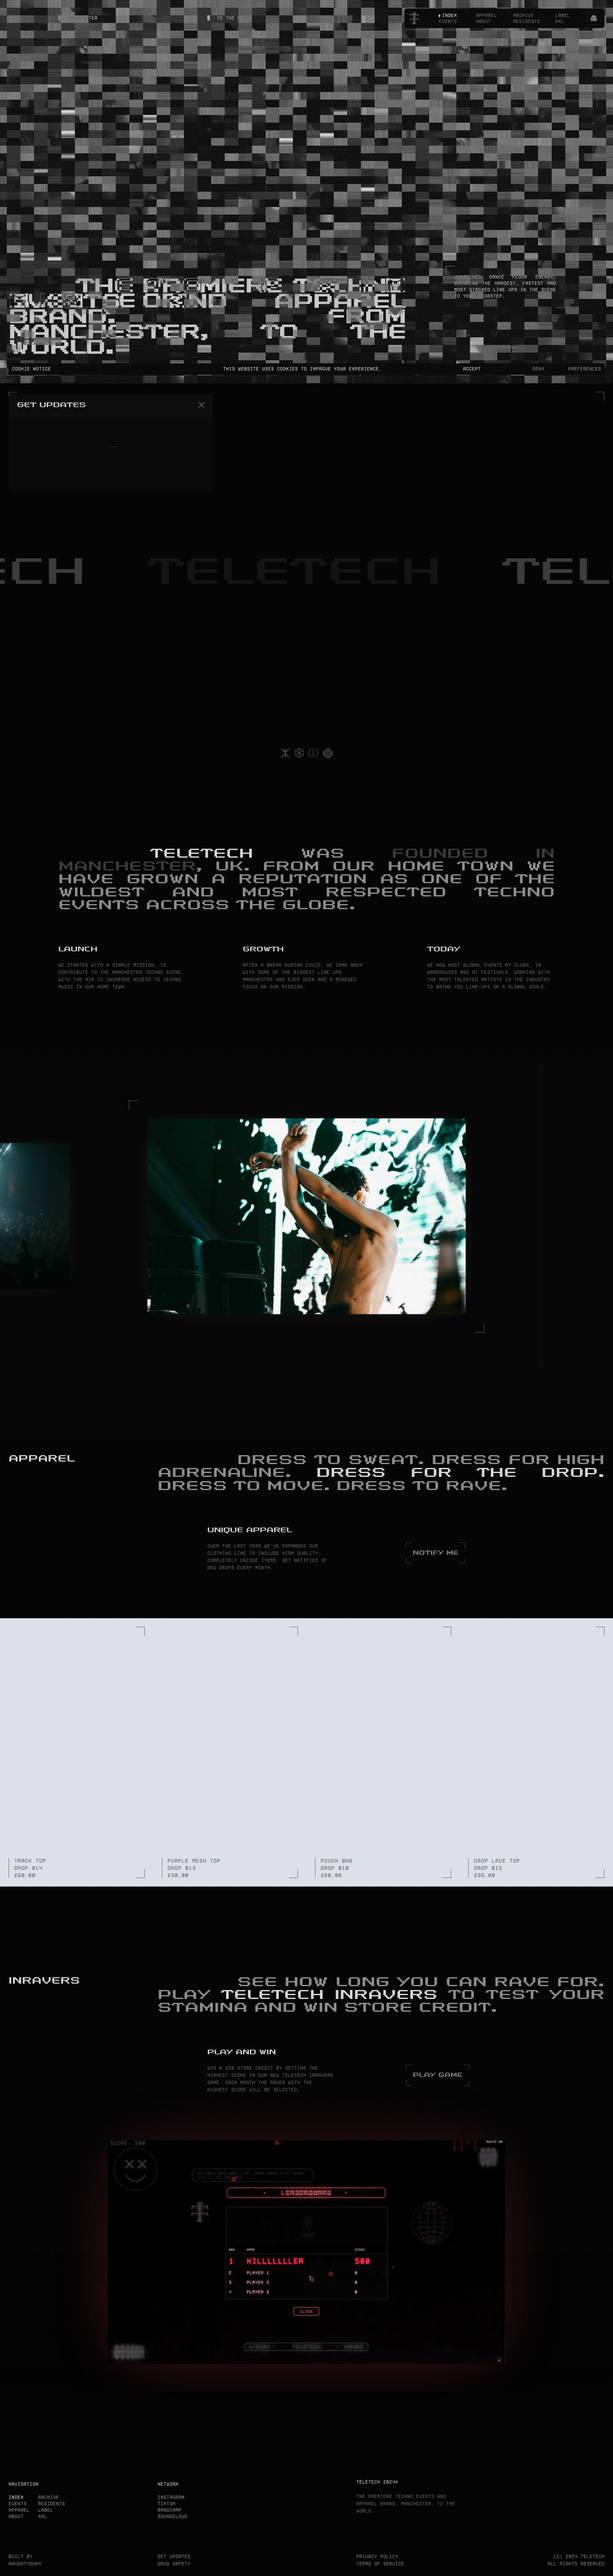
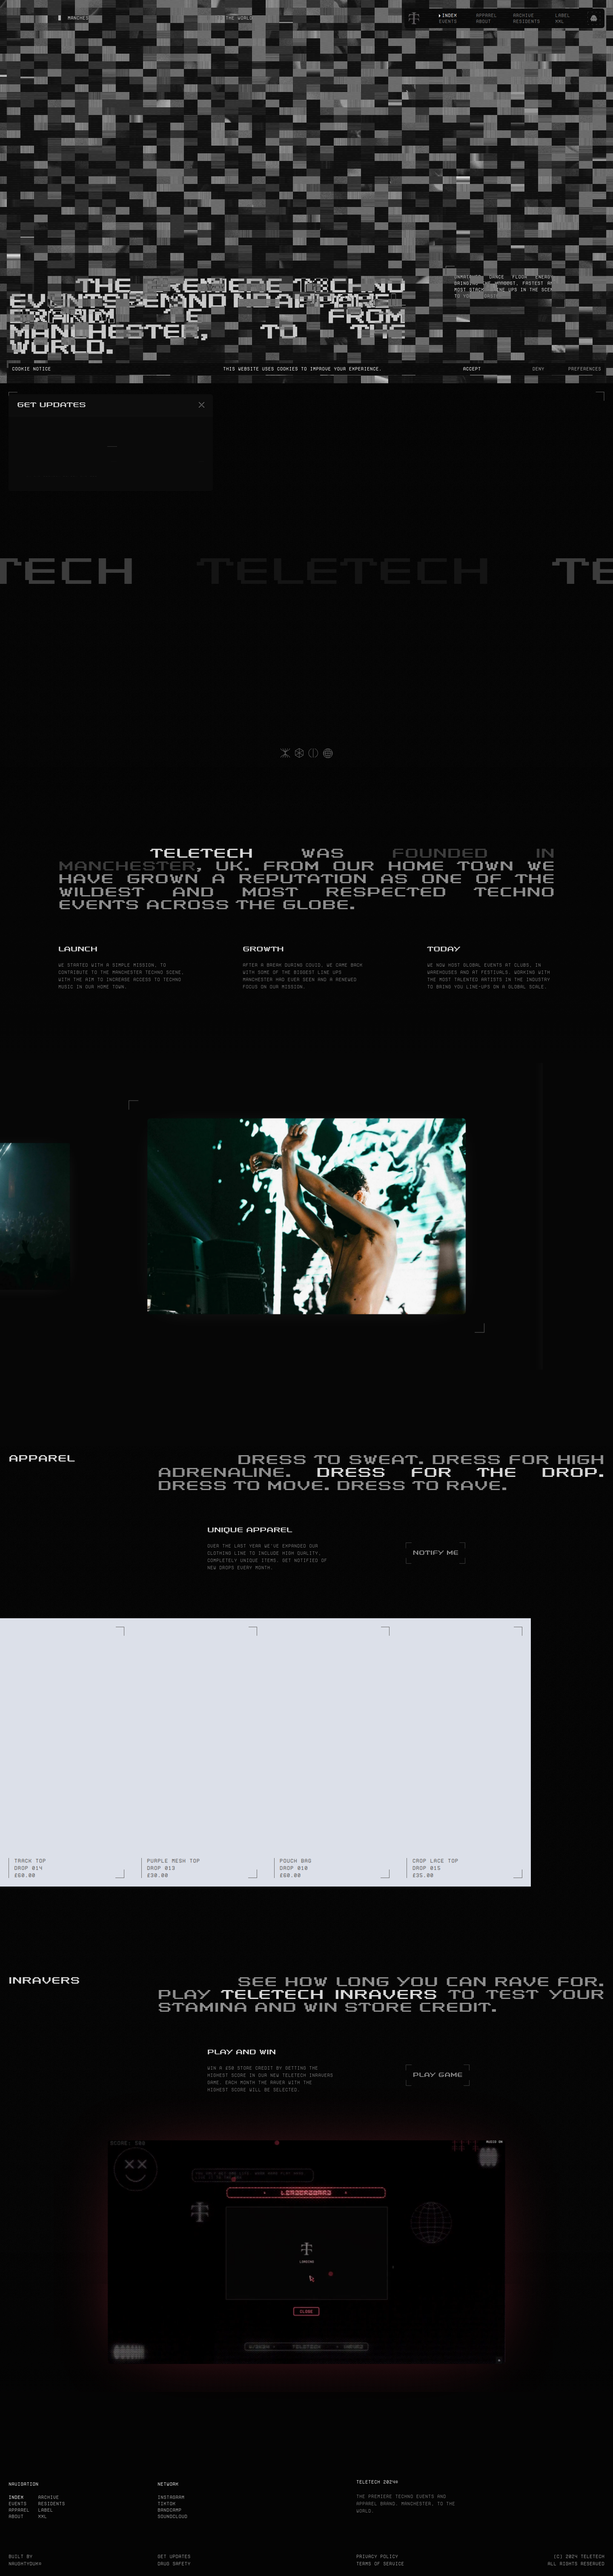
Sprint 4: Final Polish - refined vignette, corner glows, hero slideshow styling

diff --git a/styles.css b/styles.css
@@ -388,19 +388,22 @@ section {
     background-size: cover;
     background-position: center;
     opacity: 0;
-    transition: opacity 1.2s ease-in-out;
+    transition: opacity 1.5s ease-in-out;
+    filter: grayscale(30%) contrast(1.1);
 }
 
 .hero-slideshow .slide.active {
-    opacity: 0.35;
+    opacity: 0.25;
 }
 
 .hero-vignette {
     position: absolute;
     inset: 0;
     background: 
-        radial-gradient(ellipse at center, transparent 30%, var(--bg-primary) 70%),
-        linear-gradient(to bottom, var(--bg-primary) 0%, transparent 15%, transparent 85%, var(--bg-primary) 100%);
+        radial-gradient(ellipse at center, transparent 20%, var(--bg-primary) 60%),
+        radial-gradient(ellipse at 20% 50%, rgba(255, 26, 26, 0.03) 0%, transparent 40%),
+        radial-gradient(ellipse at 80% 50%, rgba(255, 26, 26, 0.03) 0%, transparent 40%),
+        linear-gradient(to bottom, var(--bg-primary) 0%, transparent 20%, transparent 80%, var(--bg-primary) 100%);
 }
 
 /* Text readability overlay */
@@ -544,30 +547,30 @@ section {
 /* Work Strip */
 .work-strip {
     position: absolute;
-    bottom: 160px;
+    bottom: 120px;
     left: 0;
     right: 0;
     display: flex;
     justify-content: center;
-    gap: 12px;
+    gap: 8px;
     padding: 0 24px;
     z-index: 2;
 }
 
 .work-strip-item {
-    width: 120px;
-    height: 80px;
+    width: 100px;
+    height: 70px;
     overflow: hidden;
     border: 1px solid var(--border);
     transition: var(--transition-fast);
-    opacity: 0.7;
+    opacity: 0.5;
 }
 
 .work-strip-item:hover {
     opacity: 1;
     border-color: var(--accent);
     transform: translateY(-4px);
-    box-shadow: 0 8px 24px rgba(0,0,0,0.3);
+    box-shadow: 0 8px 24px rgba(255, 26, 26, 0.2);
 }
 
 .work-strip-item img {
@@ -578,12 +581,13 @@ section {
 
 @media (min-width: 768px) {
     .work-strip {
-        gap: 16px;
+        gap: 12px;
+        bottom: 140px;
     }
     
     .work-strip-item {
-        width: 160px;
-        height: 110px;
+        width: 140px;
+        height: 95px;
     }
 }
 
@@ -596,7 +600,7 @@ section {
 /* Scroll Indicator */
 .scroll-indicator {
     position: absolute;
-    bottom: 40px;
+    bottom: 32px;
     left: 50%;
     transform: translateX(-50%);
     display: flex;
@@ -605,18 +609,19 @@ section {
     gap: 8px;
     z-index: 2;
     color: var(--text-muted);
-    font-size: 0.7rem;
-    letter-spacing: 2px;
+    font-size: 0.65rem;
+    letter-spacing: 3px;
     text-transform: uppercase;
+    opacity: 0.6;
 }
 
 .scroll-chevron {
-    animation: bounce 1.5s ease-in-out infinite;
+    animation: bounce 2s ease-in-out infinite;
 }
 
 @keyframes bounce {
-    0%, 100% { transform: translateY(0); }
-    50% { transform: translateY(8px); }
+    0%, 100% { transform: translateY(0); opacity: 0.6; }
+    50% { transform: translateY(10px); opacity: 1; }
 }
 .services {
     background: var(--bg-secondary);
@@ -656,15 +661,18 @@ section {
 
 .corner {
     position: absolute;
-    width: 16px;
-    height: 16px;
+    width: 20px;
+    height: 20px;
     border: 2px solid var(--accent);
     opacity: 0;
     transition: var(--transition);
+    box-shadow: 0 0 15px rgba(255, 26, 26, 0.3);
 }
 
-.corner-tl { top: 12px; left: 12px; border-right: none; border-bottom: none; }
-.corner-br { bottom: 12px; right: 12px; border-left: none; border-top: none; }
+.corner-tl { top: 16px; left: 16px; border-right: none; border-bottom: none; }
+.corner-tr { top: 16px; right: 16px; border-left: none; border-bottom: none; }
+.corner-bl { bottom: 16px; left: 16px; border-right: none; border-top: none; }
+.corner-br { bottom: 16px; right: 16px; border-left: none; border-top: none; }
 
 .service-number {
     font-family: var(--font-display);

diff --git a/index.html b/index.html
@@ -80,8 +80,6 @@
             <div class="hero-content">
                 <div class="corner-frame">
                     <div class="corner corner-tl"></div>
-                    <div class="corner corner-tr"></div>
-                    <div class="corner corner-bl"></div>
                     <div class="corner corner-br"></div>
                 </div>
                 
